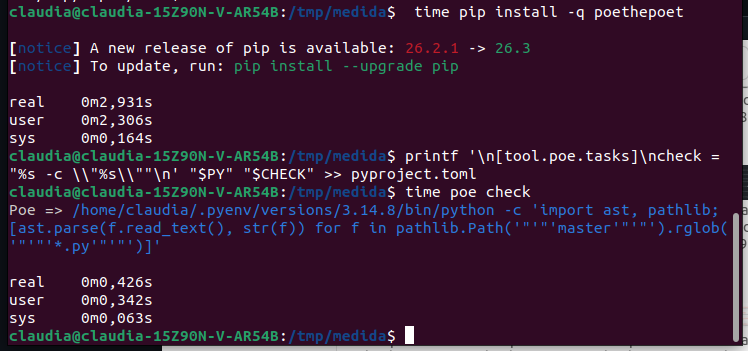
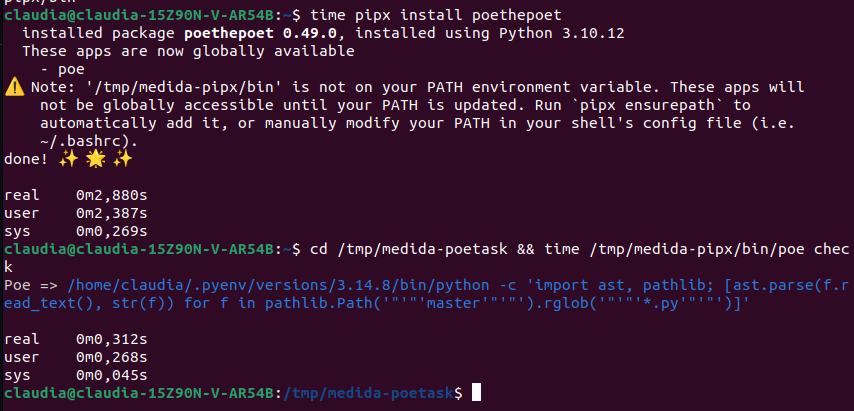
refs #23 Medir poethepoet con pipx
Se instala con pipx, que es la primera opción de su documentación (https://poethepoet.natn.io/installation.html). La tarea check se ejecuta con executor.type = "simple", porque si no poethepoet detecta uv.lock y la lanza a través de uv, y eso no mediría solo el gestor de tareas.

Changed region(s): [[0.0, 0.0, 1.0, 1.0]]

diff --git a/docs/objetivos/objetivo-3/automatizacion.md b/docs/objetivos/objetivo-3/automatizacion.md
@@ -35,8 +35,8 @@ Hacía falta una forma común de instalar las dependencias y ejecutar las tareas
   ([captura](capturas/just.png)) y ejecuta la tarea check en 0,12 s
   ([captura](capturas/just1.png)).
 - poethepoet: las tareas se definen dentro de pyproject.toml, y funciona con cualquier
-  gestor de dependencias, no solo con Poetry. Se instala en 2,93 s y ejecuta la tarea check
-  en 0,43 s ([captura](capturas/poethepoet.png)).
+  gestor de dependencias, no solo con Poetry. Se instala en 2,88 s y ejecuta la tarea check
+  en 0,31 s ([captura](capturas/poethepoet.png)).
 - PDM: las tareas se definen dentro de pyproject.toml. Se instala en 22,60 s
   ([captura](capturas/pdm.png)) y ejecuta la tarea check en 1,28 s
   ([captura](capturas/pdm1.png)).
